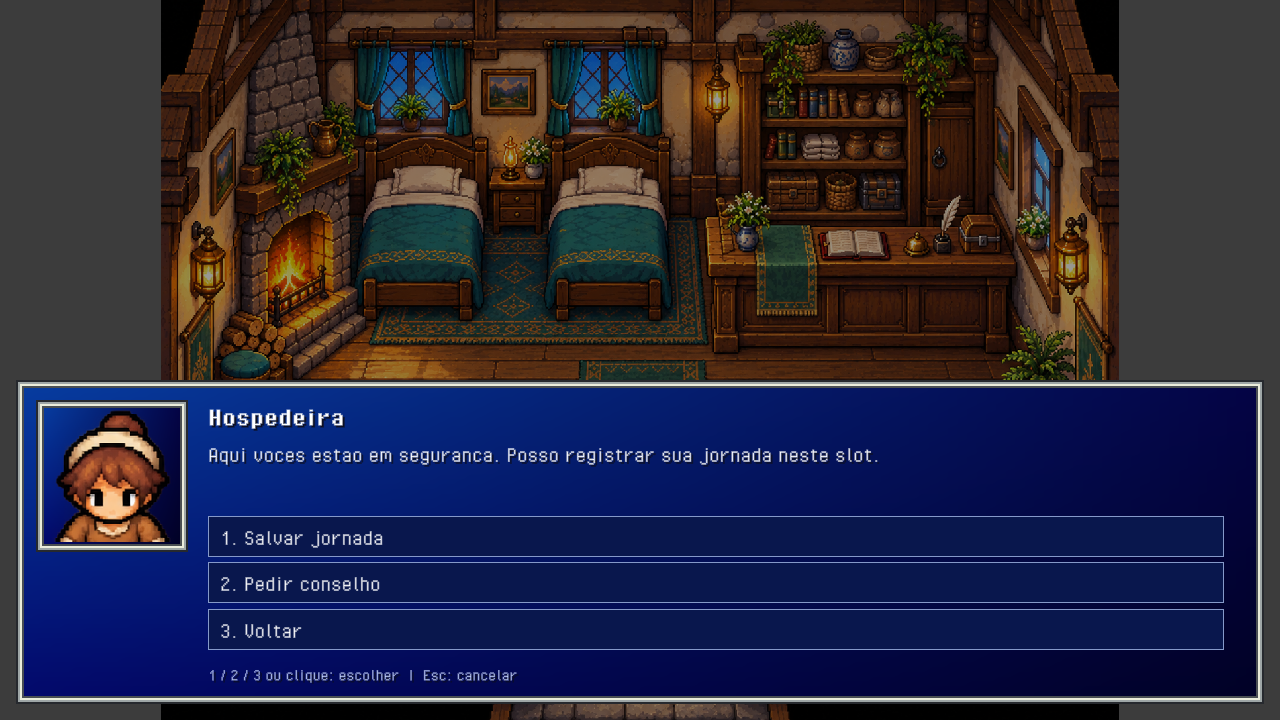
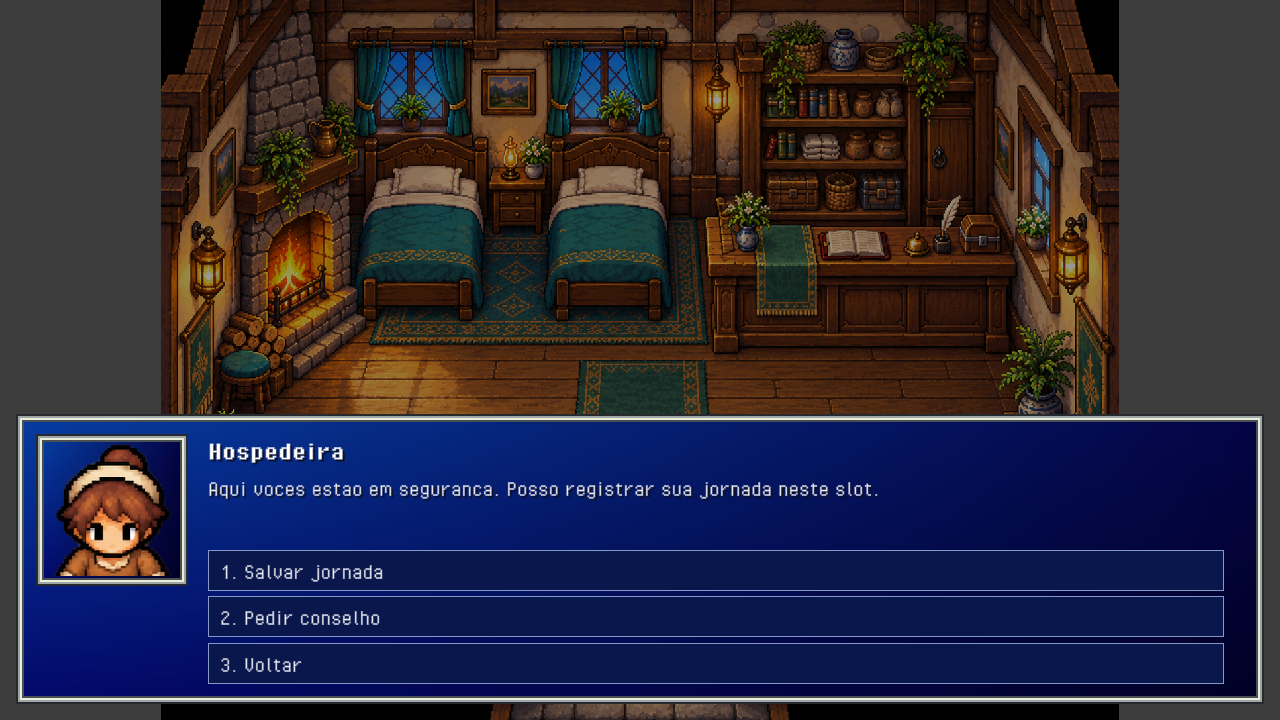
refactor: remove dialogue help and interaction prompts

Changed region(s): [[0.0, 0.5194, 1.0, 0.9472], [0.7812, 0.8861, 0.9688, 0.9472]]

diff --git a/Assets/Scripts/Prototype/DialoguePresentation.cs b/Assets/Scripts/Prototype/DialoguePresentation.cs
@@ -11,7 +11,7 @@ namespace DragonQuest.Prototype
     {
         private readonly Texture2D gradient;
         private readonly Dictionary<string, PixelSpriteAtlas> portraits = new Dictionary<string, PixelSpriteAtlas>();
-        private GUIStyle title, body, choice, hint;
+        private GUIStyle title, body, choice;
         private Vector2 scroll;
         private string lastText, lastTitle;
 
@@ -42,14 +42,14 @@ namespace DragonQuest.Prototype
             float titleHeight = title.CalcHeight(new GUIContent(dialogue.Title), contentWidth);
             float bodyHeight = Mathf.Max(64, body.CalcHeight(new GUIContent(dialogue.Text), contentWidth));
             float bodyTop = titleHeight + 8, choicesTop = bodyTop + bodyHeight + 12;
-            float hintTop = choicesTop;
+            float contentHeight = bodyTop + bodyHeight;
             var options = dialogue.Choices;
             if (dialogue.HasChoices)
-                for (int i = 0; i < options.Count; i++) hintTop += ChoiceHeight(options[i], i, contentWidth) + 6;
-            string controls = dialogue.HasChoices ? "1 / 2 / 3 ou clique: escolher  |  Esc: cancelar"
-                : "E / Espaco / Enter: continuar  |  Esc: fechar  (" + dialogue.PageNumber + "/" + dialogue.PageCount + ")";
-            float hintHeight = hint.CalcHeight(new GUIContent(controls), contentWidth);
-            float contentHeight = hintTop + 8 + hintHeight;
+            {
+                contentHeight = choicesTop;
+                for (int i = 0; i < options.Count; i++)
+                    contentHeight += ChoiceHeight(options[i], i, contentWidth) + (i > 0 ? 6 : 0);
+            }
             float panelHeight = Mathf.Min(height - 32, Mathf.Max(faceSize, contentHeight) + 40);
             Rect panel = new Rect(16, height - 16 - panelHeight, width - 32, panelHeight);
             Panel(panel);
@@ -77,20 +77,8 @@ namespace DragonQuest.Prototype
                         y += optionHeight + 6;
                     }
                 }
-                ShadowLabel(new Rect(0, hintTop + 8, contentWidth, hintHeight), controls, hint);
             }
             finally { GUI.EndScrollView(); }
-        }
-
-        public void DrawPrompt(string prompt, float width, float height)
-        {
-            if (string.IsNullOrEmpty(prompt)) return;
-            EnsureStyles();
-            float promptWidth = Mathf.Min(400, width - 32);
-            float promptHeight = Mathf.Max(48, body.CalcHeight(new GUIContent(prompt), promptWidth - 32) + 32);
-            Rect area = new Rect((width - promptWidth) / 2, height - 16 - promptHeight, promptWidth, promptHeight);
-            Panel(area);
-            ShadowLabel(Inset(area, 16), prompt, body);
         }
 
         private float ChoiceHeight(string text, int index, float width)
@@ -122,9 +110,8 @@ namespace DragonQuest.Prototype
             if (title != null) return;
             title = PrototypeTypography.Style(GUI.skin.label, 28, true);
             body = PrototypeTypography.Style(GUI.skin.label, 24);
-            hint = PrototypeTypography.Style(GUI.skin.label, 18);
             choice = PrototypeTypography.Style(GUI.skin.label, 24);
-            foreach (GUIStyle style in new[] { title, body, hint, choice })
+            foreach (GUIStyle style in new[] { title, body, choice })
             {
                 style.wordWrap = true;
                 style.padding = new RectOffset(0, 0, 0, 0);
@@ -133,7 +120,6 @@ namespace DragonQuest.Prototype
             choice.padding = new RectOffset(12, 12, 7, 7);
             choice.alignment = TextAnchor.MiddleLeft;
             choice.hover.textColor = choice.active.textColor = new Color(1, .94f, .66f);
-            hint.normal.textColor = new Color(.78f, .84f, 1);
         }
 
         private void Panel(Rect area)

diff --git a/Assets/Scripts/Interactions/PlayerInteraction.cs b/Assets/Scripts/Interactions/PlayerInteraction.cs
@@ -13,9 +13,6 @@ namespace DragonQuest.Interactions
         private PlayerMovement movement;
         private Interactable[] candidates;
         private InteractionContext context;
-        private Interactable current;
-
-        public string CurrentPrompt => current != null ? "E - " + current.Prompt : string.Empty;
 
         public void Initialize(InteractionContext interactionContext, Interactable[] targets)
         {
@@ -29,7 +26,6 @@ namespace DragonQuest.Interactions
             if (context == null) return;
             if (context.IsBusy())
             {
-                current = null;
                 movement.SetMovementEnabled(false);
                 return;
             }
@@ -39,7 +35,6 @@ namespace DragonQuest.Interactions
             // A mesma tecla que fecha uma conversa não abre outra neste frame.
             if (context.Dialogue.IsOpen)
             {
-                current = null;
                 movement.SetMovementEnabled(false);
                 if (hasInput && keyboard.escapeKey.wasPressedThisFrame) context.Dialogue.Close();
                 else if (hasInput && context.Dialogue.HasChoices)
@@ -58,13 +53,11 @@ namespace DragonQuest.Interactions
             if(hasInput && context.Secrets != null && context.Secrets.KnowsPoem && keyboard.pKey.wasPressedThisFrame)
             {
                 context.Dialogue.Open("Poema da lenda",LegendPoem.ExplainedPages());
-                current=null;movement.SetMovementEnabled(false);return;
+                movement.SetMovementEnabled(false);return;
             }
-            current = FindNearest();
-            if (hasInput && current != null && keyboard.eKey.wasPressedThisFrame)
+            if (hasInput && keyboard.eKey.wasPressedThisFrame)
             {
-                current.Interact(context);
-                current = null;
+                FindNearest()?.Interact(context);
                 movement.SetMovementEnabled(!context.Dialogue.IsOpen && !context.IsBusy());
             }
         }
@@ -86,7 +79,6 @@ namespace DragonQuest.Interactions
 
         private void OnDisable()
         {
-            current = null;
             if (movement != null) movement.SetMovementEnabled(true);
         }
     }

diff --git a/Assets/Scripts/Prototype/PrototypeCity.cs b/Assets/Scripts/Prototype/PrototypeCity.cs
@@ -127,7 +127,7 @@ namespace DragonQuest.Prototype
             interaction.Initialize(new InteractionContext(dialogue, progress, locations.TravelTo,
                 battle.StartBattle, () => battle.IsBusy, shops.Open, secrets), interactables.ToArray());
             PrototypeHud hud = gameObject.AddComponent<PrototypeHud>();
-            hud.Initialize(interaction, dialogue, battle);
+            hud.Initialize(dialogue, battle);
             saves.Initialize(player.GetComponent<PlayerMovement>(), battle, shops, locations, dialogue, progress, secrets, dragon, journey =>
             {
                 progress = journey.Progress;
@@ -139,7 +139,7 @@ namespace DragonQuest.Prototype
                 shops.Initialize(player.GetComponent<PlayerMovement>(), dialogue, battle, progress, journey.Shops, journey.Quest);
                 interaction.Initialize(new InteractionContext(dialogue, progress, locations.TravelTo,
                     battle.StartBattle, () => battle.IsBusy, shops.Open, secrets), interactables.ToArray());
-                hud.Initialize(interaction, dialogue, battle);
+                hud.Initialize(dialogue, battle);
                 cheats.Initialize(player.GetComponent<PlayerMovement>(), battle, saves, progress);
                 locations.Restore(journey.Data.Map, new Vector2(journey.Data.X, journey.Data.Y));
             });
@@ -367,9 +367,9 @@ namespace DragonQuest.Prototype
             }
             else throw new System.ArgumentException("Loja sem cenario: "+shopId);
             MerchantInteraction merchant=CreateNpcFigure(shopName,merchantPoint,displayColor,shop).AddComponent<MerchantInteraction>();
-            merchant.Initialize(shopId,shopName); interactions.Add(merchant);
+            merchant.Initialize(shopId); interactions.Add(merchant);
             MerchantInteraction counter=Entity("Balcao / negociar",counterPoint,shop).AddComponent<MerchantInteraction>();
-            counter.Initialize(shopId,shopName); interactions.Add(counter);
+            counter.Initialize(shopId); interactions.Add(counter);
             CreatePassage("Saida da loja",shopId,shop,PrototypeTravel.City);
         }
 

diff --git a/Assets/Scripts/Prototype/PrototypeHud.cs b/Assets/Scripts/Prototype/PrototypeHud.cs
@@ -5,31 +5,26 @@ namespace DragonQuest.Prototype
 {
     public sealed class PrototypeHud : MonoBehaviour
     {
-        private PlayerInteraction interaction;
         private DialogueController dialogue;
         private PrototypeBattleController battle;
         private DialoguePresentation presentation;
 
-        public void Initialize(PlayerInteraction playerInteraction, DialogueController dialogueController,
-            PrototypeBattleController battleController)
+        public void Initialize(DialogueController dialogueController, PrototypeBattleController battleController)
         {
-            interaction = playerInteraction;
             dialogue = dialogueController;
             battle = battleController;
         }
 
         private void OnGUI()
         {
-            if (interaction == null || dialogue == null || battle == null || battle.IsBusy) return;
+            if (dialogue == null || !dialogue.IsOpen || battle == null || battle.IsBusy) return;
             if (presentation == null) presentation = new DialoguePresentation();
             float scale = Mathf.Clamp(Screen.height / 720f, 0.65f, 2f);
             Matrix4x4 previousMatrix = GUI.matrix;
             GUI.matrix = Matrix4x4.Scale(new Vector3(scale, scale, 1));
             try
             {
-                float width = Screen.width / scale, height = Screen.height / scale;
-                if (dialogue.IsOpen) presentation.Draw(dialogue, width, height);
-                else presentation.DrawPrompt(interaction.CurrentPrompt, width, height);
+                presentation.Draw(dialogue, Screen.width / scale, Screen.height / scale);
             }
             finally { GUI.matrix = previousMatrix; }
         }

diff --git a/Assets/Scripts/Interactions/AncientSecretInteraction.cs b/Assets/Scripts/Interactions/AncientSecretInteraction.cs
@@ -13,11 +13,6 @@ namespace DragonQuest.Interactions
         private GameObject light;
         public void Initialize(SecretObject type, AncientSecrets progress, MonolithSymbol rune = MonolithSymbol.Sun, GameObject glow = null)
         { kind=type; secrets=progress; symbol=rune; light=glow; RefreshLight(); }
-        public override string Prompt => kind == SecretObject.Peasant ? "Conversar com a camponesa"
-            : kind == SecretObject.Altar ? "Examinar altar antigo"
-            : kind == SecretObject.Inscription ? "Ler inscricao desgastada"
-            : kind == SecretObject.Monolith ? "Tocar monolito / " + SymbolName(symbol)
-            : kind == SecretObject.ClawStone ? "Examinar marcas na pedra" : "Examinar raizes antigas";
 
         private void OnEnable() => RefreshLight();
         private void Update() => RefreshLight();

diff --git a/Assets/Editor/InnValidation.cs b/Assets/Editor/InnValidation.cs
@@ -71,7 +71,7 @@ public static class InnValidation
             Assert(signatures.Count==8&&saves==1,"all eight frames are distinct and animation never saves automatically");
             savePoint.ShowAt(InnSavePoint.FrameCount/InnSavePoint.FramesPerSecond);Assert(savePoint.CurrentFrame==0,"animation wraps to its first frame");
             savePoint.Interact(new InteractionContext(null,new ExplorationProgress(),_=>{}));
-            Assert(saves==2&&savePoint.Prompt=="Salvar jornada","save crystal invokes manual save exactly once per interaction");
+            Assert(saves==2,"save crystal invokes manual save exactly once per interaction");
             savePoint.ShowAt(0);
 
             foreach (Vector2Int resolution in new[] { new Vector2Int(1280,720),new Vector2Int(1280,800),new Vector2Int(960,720) })

diff --git a/Assets/Editor/DragonLairValidation.cs b/Assets/Editor/DragonLairValidation.cs
@@ -35,7 +35,7 @@ public static class DragonLairValidation
             interaction.Initialize(progress, () => battles++, animation.gameObject, essence);
             var dialogue = root.AddComponent<DialogueController>();
             var context = new InteractionContext(dialogue, new ExplorationProgress(), _ => { });
-            Assert(animation.State == DragonRestState.Sleeping && interaction.Prompt.Contains("Acordar"), "dragon starts asleep with wake prompt");
+            Assert(animation.State == DragonRestState.Sleeping, "dragon starts asleep before interaction");
             animation.Advance(10);
             Assert(animation.State == DragonRestState.Sleeping && !essence.activeSelf, "time alone cannot wake dragon or reveal essence");
 

diff --git a/Assets/Scripts/Interactions/DragonInteraction.cs b/Assets/Scripts/Interactions/DragonInteraction.cs
@@ -11,8 +11,6 @@ namespace DragonQuest.Interactions
         private Action startBattle;
         private GameObject body, essence;
         private DragonLairAnimation restingDragon;
-        public override string Prompt => progress?.IsDefeated == true ? "Ouvir a essencia liberta"
-            : restingDragon?.State == DragonRestState.Sleeping ? "Acordar o dragao" : "Enfrentar o dragao corrompido";
 
         public void Initialize(DragonProgress dragon, Action start, GameObject model, GameObject glow)
         {

diff --git a/Assets/Scripts/Interactions/TyrantInteraction.cs b/Assets/Scripts/Interactions/TyrantInteraction.cs
@@ -11,7 +11,6 @@ namespace DragonQuest.Interactions
         private Action startBattle;
         private Action<DialogueController> presentParty;
         private GameObject spirit;
-        public override string Prompt => "Enfrentar o tirano";
         public void Initialize(Func<PartyProgress> party,Action start,GameObject spiritModel,Action<DialogueController> partyPresentation=null)
         {getParty=party;startBattle=start;spirit=spiritModel;presentParty=partyPresentation;}
         private bool Revealed()

diff --git a/Assets/Scripts/Interactions/MerchantInteraction.cs b/Assets/Scripts/Interactions/MerchantInteraction.cs
@@ -3,9 +3,7 @@ namespace DragonQuest.Interactions
     public sealed class MerchantInteraction : Interactable
     {
         private string shopId;
-        private string shopName;
-        public override string Prompt => "Negociar / " + shopName;
-        public void Initialize(string id, string name) { shopId = id; shopName = name; }
+        public void Initialize(string id) => shopId = id;
         public override void Interact(InteractionContext context) => context.OpenShop?.Invoke(shopId);
     }
 }

diff --git a/Assets/Scripts/Interactions/InnInteraction.cs b/Assets/Scripts/Interactions/InnInteraction.cs
@@ -3,7 +3,6 @@ namespace DragonQuest.Interactions
     public sealed class InnInteraction : Interactable
     {
         private System.Action save;
-        public override string Prompt => "Conversar / salvar na hospedaria";
         public void Initialize(System.Action manualSave) => save = manualSave;
         public override void Interact(InteractionContext context)
         {

diff --git a/Assets/Scripts/Interactions/BlockedPassageInteraction.cs b/Assets/Scripts/Interactions/BlockedPassageInteraction.cs
@@ -4,7 +4,6 @@ namespace DragonQuest.Interactions
 {
     public sealed class BlockedPassageInteraction : Interactable
     {
-        public override string Prompt => secrets?.PassageOpen == true ? "Examinar passagem aberta" : "Examinar barreira magica";
         private GameObject barrier;
         private float openingTime;
         private bool opening;
